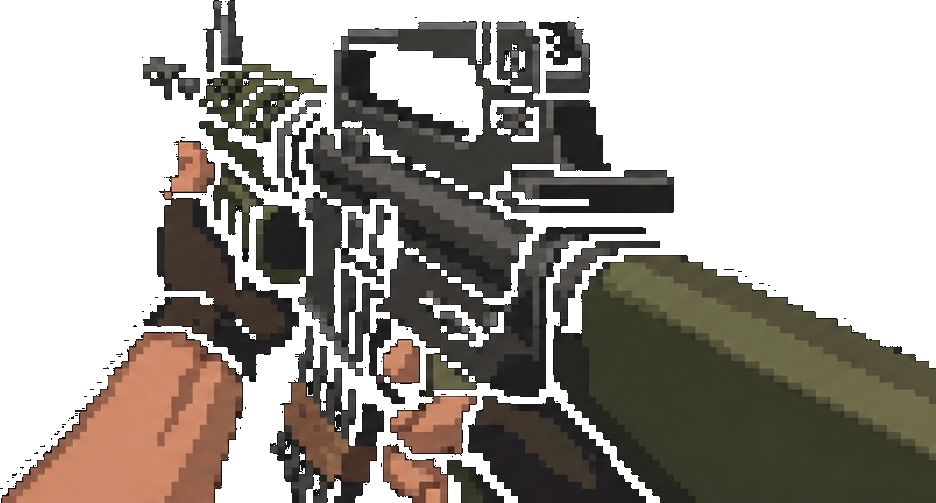
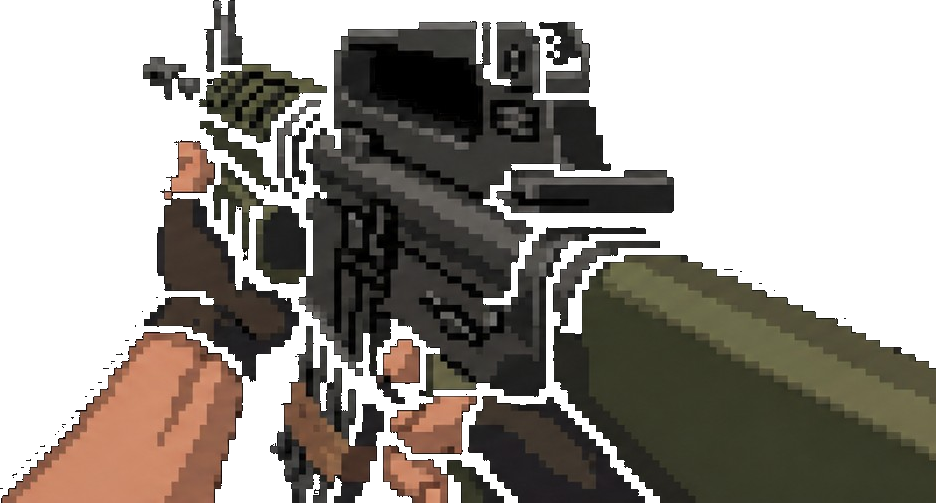
Preserve gun outline pixels and shrink crosshair
- Re-process gun.png using edge flood-fill: only black pixels reachable
  from the image border are made transparent. Inner black pixels (the
  pixel-art outline around the rifle, ~17.7k pixels) stay opaque.
- Crosshair: 28px → 14px, lines 2px → 1px, center dot 4px → 2px.

diff --git a/style.css b/style.css
@@ -143,8 +143,8 @@ html, body {
   position: absolute;
   top: 50%;
   left: 50%;
-  width: 28px;
-  height: 28px;
+  width: 14px;
+  height: 14px;
   transform: translate(-50%, -50%);
   pointer-events: none;
   z-index: 20;
@@ -154,21 +154,21 @@ html, body {
   content: '';
   position: absolute;
   background: rgba(255, 255, 255, 0.95);
-  box-shadow: 0 0 4px rgba(0, 0, 0, 1), 0 0 6px rgba(255, 255, 255, 0.4);
+  box-shadow: 0 0 3px rgba(0, 0, 0, 1);
 }
 
 #crosshair::before {
   top: 50%;
   left: 0;
   width: 100%;
-  height: 2px;
+  height: 1px;
   transform: translateY(-50%);
 }
 
 #crosshair::after {
   left: 50%;
   top: 0;
-  width: 2px;
+  width: 1px;
   height: 100%;
   transform: translateX(-50%);
 }
@@ -178,12 +178,12 @@ html, body {
   position: absolute;
   top: 50%;
   left: 50%;
-  width: 4px;
-  height: 4px;
+  width: 2px;
+  height: 2px;
   background: #ff5544;
   border-radius: 50%;
   transform: translate(-50%, -50%);
-  box-shadow: 0 0 4px rgba(0, 0, 0, 1), 0 0 8px rgba(255, 80, 60, 0.8);
+  box-shadow: 0 0 3px rgba(0, 0, 0, 1), 0 0 5px rgba(255, 80, 60, 0.7);
   pointer-events: none;
   z-index: 21;
 }
